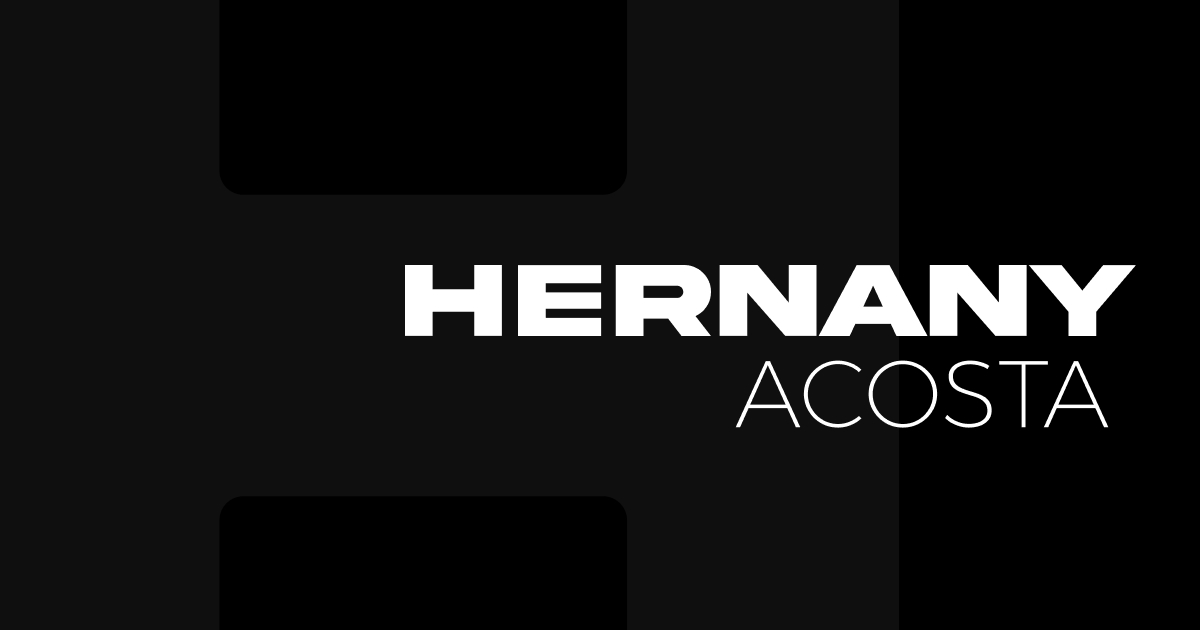
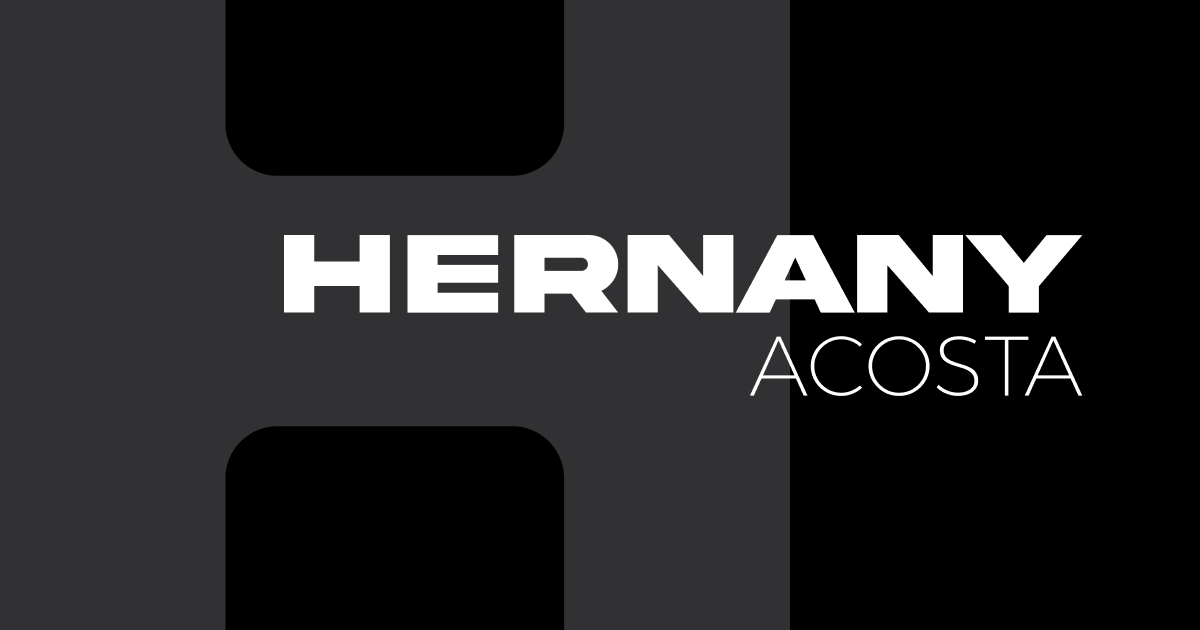
Improve-home-asets-SEO

diff --git a/src/app/components/home-page.tsx b/src/app/components/home-page.tsx
@@ -11,189 +11,183 @@ const featuredProjects = [
     id: "lotobola",
     title: "LotoBola",
     description:
-      "End-to-end product design for a betting platform, including UX flows, UI and frontend handoff.",
-    role: "Lead Product Designer",
-    type: "Platform / Web App",
-    image: "https://images.unsplash.com/photo-1718157582118-f04597eaae56?crop=entropy&cs=tinysrgb&fit=max&fm=jpg&ixid=M3w3Nzg4Nzd8MHwxfHNlYXJjaHwxfHxiZXR0aW5nJTIwcGxhdGZvcm0lMjBpbnRlcmZhY2V8ZW58MXx8fHwxNzY5MjE3Mjk3fDA&ixlib=rb-4.1.0&q=80&w=1080",
+      "End-to-end UX architecture and UI for a transactional betting ecosystem: critical flows, operational clarity, and frontend-ready handoff.",
+    role: "Lead Product / Service Designer",
+    type: "Regulated Platform · Web App",
+    image:
+      "https://images.unsplash.com/photo-1718157582118-f04597eaae56?crop=entropy&cs=tinysrgb&fit=max&fm=jpg&ixid=M3w3Nzg4Nzd8MHwxfHNlYXJjaHwxfHxiZXR0aW5nJTIwcGxhdGZvcm0lMjBpbnRlcmZhY2V8ZW58MXx8fHwxNzY5MjE3Mjk3fDA&ixlib=rb-4.1.0&q=80&w=1080",
   },
   {
     id: "playzonbet",
     title: "PlayzonBet",
     description:
-      "UX systems and UI for a sports betting platform focused on clarity, scalability and delivery.",
+      "Scalable UX systems and UI patterns for sports betting: reusable components, content hierarchy, and delivery alignment with engineering.",
     role: "Lead Product Designer",
-    type: "Platform / Web App",
-    image: "https://images.unsplash.com/photo-1758411898021-ef0dadaaa295?crop=entropy&cs=tinysrgb&fit=max&fm=jpg&ixid=M3w3Nzg4Nzd8MHwxfHNlYXJjaHwxfHxtb2Rlcm4lMjBkYXNoYm9hcmQlMjBpbnRlcmZhY2V8ZW58MXx8fHwxNzY5MTY5OTM3fDA&ixlib=rb-4.1.0&q=80&w=1080",
+    type: "Platform · Design System",
+    image:
+      "https://images.unsplash.com/photo-1758411898021-ef0dadaaa295?crop=entropy&cs=tinysrgb&fit=max&fm=jpg&ixid=M3w3Nzg4Nzd8MHwxfHNlYXJjaHwxfHxtb2Rlcm4lMjBkYXNoYm9hcmQlMjBpbnRlcmZhY2V8ZW58MXx8fHwxNzY5MTY5OTM3fDA&ixlib=rb-4.1.0&q=80&w=1080",
   },
   {
     id: "inlearning",
     title: "Inlearning",
     description:
-      "Design of a corporate e-learning platform focused on usability, content structure and frontend feasibility.",
-    role: "Lead Product Designer",
-    type: "Platform / Web App",
-    image: "https://images.unsplash.com/photo-1588912914074-b93851ff14b8?crop=entropy&cs=tinysrgb&fit=max&fm=jpg&ixid=M3w3Nzg4Nzd8MHwxfHNlYXJjaHwxfHxlbGVhcm5pbmclMjBwbGF0Zm9ybXxlbnwxfHx8fDE3NjkyMTcyOTd8MA&ixlib=rb-4.1.0&q=80&w=1080",
+      "Information architecture + UI for enterprise learning: usability, content structure, and implementation feasibility across teams.",
+    role: "Product Designer",
+    type: "Enterprise Platform",
+    image:
+      "https://images.unsplash.com/photo-1588912914074-b93851ff14b8?crop=entropy&cs=tinysrgb&fit=max&fm=jpg&ixid=M3w3Nzg4Nzd8MHwxfHNlYXJjaHwxfHxlbGVhcm5pbmclMjBwbGF0Zm9ybXxlbnwxfHx8fDE3NjkyMTcyOTd8MA&ixlib=rb-4.1.0&q=80&w=1080",
   },
   {
     id: "pacasmayo",
     title: "Pacasmayo",
     description:
-      "UX and UI for an internal digital platform to support operations and training.",
-    role: "Lead Product Designer",
-    type: "Platform / Web App",
-    image: "https://images.unsplash.com/photo-1698440050363-1697e5f0277c?crop=entropy&cs=tinysrgb&fit=max&fm=jpg&ixid=M3w3Nzg4Nzd8MHwxfHNlYXJjaHwxfHxkZXNpZ24lMjBzeXN0ZW0lMjBjb21wb25lbnRzfGVufDF8fHx8MTc2OTEyODA1OHww&ixlib=rb-4.1.0&q=80&w=1080",
+      "UX and UI for internal operations: workflows, training support, and system consistency across modules and roles.",
+    role: "UX / Product Designer",
+    type: "Internal Platform",
+    image:
+      "https://images.unsplash.com/photo-1698440050363-1697e5f0277c?crop=entropy&cs=tinysrgb&fit=max&fm=jpg&ixid=M3w3Nzg4Nzd8MHwxfHNlYXJjaHwxfHxkZXNpZ24lMjBzeXN0ZW0lMjBjb21wb25lbnRzfGVufDF8fHx8MTc2OTEyODA1OHww&ixlib=rb-4.1.0&q=80&w=1080",
   },
 ];
 
 const additionalExperience = [
-  {
-    title: "Jakala – Marketing Campaigns",
-    type: "Marketing / Campaign",
-    year: "2023",
-    image: "https://images.unsplash.com/photo-1656164631610-f104326810c1?crop=entropy&cs=tinysrgb&fit=max&fm=jpg&ixid=M3w3Nzg4Nzd8MHwxfHNlYXJjaHwxfHxkaWdpdGFsJTIwbWFya2V0aW5nJTIwY2FtcGFpZ258ZW58MXx8fHwxNzY5MDk2NzI4fDA&ixlib=rb-4.1.0&q=80&w=1080",
-  },
-  {
-    title: "Jakala – Brand Activations",
-    type: "Branding / Campaign",
-    year: "2023",
-    image: "https://images.unsplash.com/photo-1702047054352-cf264d3b1a9c?crop=entropy&cs=tinysrgb&fit=max&fm=jpg&ixid=M3w3Nzg4Nzd8MHwxfHNlYXJjaHwxfHxicmFuZCUyMGRlc2lnbiUyMHdvcmtzcGFjZXxlbnwxfHx8fDE3NjkyMTcyOTh8MA&ixlib=rb-4.1.0&q=80&w=1080",
-  },
-  {
-    title: "Corporate Branding Projects",
-    type: "Branding / Visual",
-    year: "2022",
-    image: "https://images.unsplash.com/photo-1702047054352-cf264d3b1a9c?crop=entropy&cs=tinysrgb&fit=max&fm=jpg&ixid=M3w3Nzg4Nzd8MHwxfHNlYXJjaHwxfHxicmFuZCUyMGRlc2lnbiUyMHdvcmtzcGFjZXxlbnwxfHx8fDE3NjkyMTcyOTh8MA&ixlib=rb-4.1.0&q=80&w=1080",
-  },
-  {
-    title: "Visual Identity Systems",
-    type: "Branding / Visual",
-    year: "2022",
-    image: "https://images.unsplash.com/photo-1702047054352-cf264d3b1a9c?crop=entropy&cs=tinysrgb&fit=max&fm=jpg&ixid=M3w3Nzg4Nzd8MHwxfHNlYXJjaHwxfHxicmFuZCUyMGRlc2lnbiUyMHdvcmtzcGFjZXxlbnwxfHx8fDE3NjkyMTcyOTh8MA&ixlib=rb-4.1.0&q=80&w=1080",
-  },
-  {
-    title: "Landing Pages",
-    type: "Visual / Web",
-    year: "2023",
-    image: "https://images.unsplash.com/photo-1656164631610-f104326810c1?crop=entropy&cs=tinysrgb&fit=max&fm=jpg&ixid=M3w3Nzg4Nzd8MHwxfHNlYXJjaHwxfHxkaWdpdGFsJTIwbWFya2V0aW5nJTIwY2FtcGFpZ258ZW58MXx8fHwxNzY5MDk2NzI4fDA&ixlib=rb-4.1.0&q=80&w=1080",
-  },
-  {
-    title: "Marketing Websites",
-    type: "Visual / Web",
-    year: "2022",
-    image: "https://images.unsplash.com/photo-1656164631610-f104326810c1?crop=entropy&cs=tinysrgb&fit=max&fm=jpg&ixid=M3w3Nzg4Nzd8MHwxfHNlYXJjaHwxfHxkaWdpdGFsJTIwbWFya2V0aW5nJTIwY2FtcGFpZ258ZW58MXx8fHwxNzY5MDk2NzI4fDA&ixlib=rb-4.1.0&q=80&w=1080",
-  },
-  {
-    title: "Editorial Design",
-    type: "Editorial / Visual",
-    year: "2021",
-    image: "https://images.unsplash.com/photo-1702047054352-cf264d3b1a9c?crop=entropy&cs=tinysrgb&fit=max&fm=jpg&ixid=M3w3Nzg4Nzd8MHwxfHNlYXJjaHwxfHxicmFuZCUyMGRlc2lnbiUyMHdvcmtzcGFjZXxlbnwxfHx8fDE3NjkyMTcyOTh8MA&ixlib=rb-4.1.0&q=80&w=1080",
-  },
-  {
-    title: "Social Media Campaigns",
-    type: "Marketing / Campaign",
-    year: "2021",
-    image: "https://images.unsplash.com/photo-1656164631610-f104326810c1?crop=entropy&cs=tinysrgb&fit=max&fm=jpg&ixid=M3w3Nzg4Nzd8MHwxfHNlYXJjaHwxfHxkaWdpdGFsJTIwbWFya2V0aW5nJTIwY2FtcGFpZ258ZW58MXx8fHwxNzY5MDk2NzI4fDA&ixlib=rb-4.1.0&q=80&w=1080",
-  },
+  { title: "Jakala – Marketing Campaigns", type: "Marketing / Campaign", year: "2023", image: "https://images.unsplash.com/photo-1656164631610-f104326810c1?crop=entropy&cs=tinysrgb&fit=max&fm=jpg&ixid=M3w3Nzg4Nzd8MHwxfHNlYXJjaHwxfHxkaWdpdGFsJTIwbWFya2V0aW5nJTIwY2FtcGFpZ258ZW58MXx8fHwxNzY5MDk2NzI4fDA&ixlib=rb-4.1.0&q=80&w=1080" },
+  { title: "Jakala – Brand Activations", type: "Branding / Campaign", year: "2023", image: "https://images.unsplash.com/photo-1702047054352-cf264d3b1a9c?crop=entropy&cs=tinysrgb&fit=max&fm=jpg&ixid=M3w3Nzg4Nzd8MHwxfHNlYXJjaHwxfHxicmFuZCUyMGRlc2lnbiUyMHdvcmtzcGFjZXxlbnwxfHx8fDE3NjkyMTcyOTh8MA&ixlib=rb-4.1.0&q=80&w=1080" },
+  { title: "Corporate Branding Projects", type: "Branding / Visual", year: "2022", image: "https://images.unsplash.com/photo-1702047054352-cf264d3b1a9c?crop=entropy&cs=tinysrgb&fit=max&fm=jpg&ixid=M3w3Nzg4Nzd8MHwxfHNlYXJjaHwxfHxicmFuZCUyMGRlc2lnbiUyMHdvcmtzcGFjZXxlbnwxfHx8fDE3NjkyMTcyOTh8MA&ixlib=rb-4.1.0&q=80&w=1080" },
+  { title: "Visual Identity Systems", type: "Branding / Visual", year: "2022", image: "https://images.unsplash.com/photo-1702047054352-cf264d3b1a9c?crop=entropy&cs=tinysrgb&fit=max&fm=jpg&ixid=M3w3Nzg4Nzd8MHwxfHNlYXJjaHwxfHxicmFuZCUyMGRlc2lnbiUyMHdvcmtzcGFjZXxlbnwxfHx8fDE3NjkyMTcyOTh8MA&ixlib=rb-4.1.0&q=80&w=1080" },
+  { title: "Landing Pages", type: "Visual / Web", year: "2023", image: "https://images.unsplash.com/photo-1656164631610-f104326810c1?crop=entropy&cs=tinysrgb&fit=max&fm=jpg&ixid=M3w3Nzg4Nzd8MHwxfHNlYXJjaHwxfHxkaWdpdGFsJTIwbWFya2V0aW5nJTIwY2FtcGFpZ258ZW58MXx8fHwxNzY5MDk2NzI4fDA&ixlib=rb-4.1.0&q=80&w=1080" },
+  { title: "Marketing Websites", type: "Visual / Web", year: "2022", image: "https://images.unsplash.com/photo-1656164631610-f104326810c1?crop=entropy&cs=tinysrgb&fit=max&fm=jpg&ixid=M3w3Nzg4Nzd8MHwxfHNlYXJjaHwxfHxkaWdpdGFsJTIwbWFya2V0aW5nJTIwY2FtcGFpZ258ZW58MXx8fHwxNzY5MDk2NzI4fDA&ixlib=rb-4.1.0&q=80&w=1080" },
+  { title: "Editorial Design", type: "Editorial / Visual", year: "2021", image: "https://images.unsplash.com/photo-1702047054352-cf264d3b1a9c?crop=entropy&cs=tinysrgb&fit=max&fm=jpg&ixid=M3w3Nzg4Nzd8MHwxfHNlYXJjaHwxfHxicmFuZCUyMGRlc2lnbiUyMHdvcmtzcGFjZXxlbnwxfHx8fDE3NjkyMTcyOTh8MA&ixlib=rb-4.1.0&q=80&w=1080" },
+  { title: "Social Media Campaigns", type: "Marketing / Campaign", year: "2021", image: "https://images.unsplash.com/photo-1656164631610-f104326810c1?crop=entropy&cs=tinysrgb&fit=max&fm=jpg&ixid=M3w3Nzg4Nzd8MHwxfHNlYXJjaHwxfHxkaWdpdGFsJTIwbWFya2V0aW5nJTIwY2FtcGFpZ258ZW58MXx8fHwxNzY5MDk2NzI4fDA&ixlib=rb-4.1.0&q=80&w=1080" },
 ];
 
 export function HomePage({ onNavigate }: HomePageProps) {
-  const heroRef = useRef<HTMLDivElement>(null);
+  const heroRef = useRef<HTMLElement>(null);
+
   const { scrollYProgress } = useScroll({
     target: heroRef,
     offset: ["start start", "end start"],
   });
 
-  const imageY = useTransform(scrollYProgress, [0, 1], ["0%", "30%"]);
-  const textY = useTransform(scrollYProgress, [0, 1], ["0%", "50%"]);
-  const opacity = useTransform(scrollYProgress, [0, 0.5], [1, 0]);
+  const imageY = useTransform(scrollYProgress, [0, 1], ["0%", "28%"]);
+  const textY = useTransform(scrollYProgress, [0, 1], ["0%", "45%"]);
+  const opacity = useTransform(scrollYProgress, [0, 0.55], [1, 0]);
 
   return (
-    <div className="pt-20">
+    <main className="pt-20">
       {/* Hero Section with Parallax */}
-      <section ref={heroRef} className="relative min-h-screen flex items-center overflow-hidden">
-        <motion.div
-          style={{ y: imageY }}
-          className="absolute inset-0 z-0"
-        >
-          <div className="absolute inset-0 bg-gradient-to-b from-transparent via-background/50 to-background z-10" />
+      <section
+        ref={heroRef}
+        aria-labelledby="home-hero-title"
+        className="relative min-h-screen flex items-center overflow-hidden"
+      >
+        <motion.div style={{ y: imageY }} className="absolute inset-0 z-0">
+         <div className="absolute inset-0 z-10 bg-gradient-to-b from-black/50 via-background/60 to-background" />
           <img
-            src="https://images.unsplash.com/photo-1740223544743-2aac7fb644c4?crop=entropy&cs=tinysrgb&fit=max&fm=jpg&ixid=M3w3Nzg4Nzd8MHwxfHNlYXJjaHwxfHxwcm9mZXNzaW9uYWwlMjBkZXNpZ25lciUyMHBvcnRyYWl0fGVufDF8fHx8MTc2OTEwNjYxOXww&ixlib=rb-4.1.0&q=80&w=1080"
-            alt="PLACEHOLDER – HERO PHOTO"
-            className="w-full h-full object-cover opacity-40"
-          />
+              src="/images/hero.webp"
+              alt="Hernany Acosta — Service & Product Designer"
+              className="w-full h-full object-cover opacity-40"
+              loading="eager"
+              fetchPriority="high"
+            />
         </motion.div>
 
-        <motion.div
+        <motion.header
           style={{ y: textY, opacity }}
           className="relative z-20 max-w-7xl mx-auto px-6 lg:px-12 py-32"
         >
           <div className="max-w-4xl">
-            <h1 className="text-6xl md:text-8xl lg:text-9xl tracking-tight mb-6">
+            <h1
+              id="home-hero-title"
+              className="text-6xl md:text-8xl lg:text-9xl tracking-tight mb-6"
+            >
               Hernany Acosta
             </h1>
-            <p className="text-2xl md:text-3xl text-muted-foreground mb-12">
-              Lead Product Designer
+
+            <p className="text-2xl md:text-3xl text-muted-foreground mb-8">
+              Service &amp; Product Designer for regulated digital ecosystems
             </p>
+
             <p className="text-xl md:text-2xl leading-relaxed mb-8 max-w-3xl">
-              I design and deliver scalable digital products by translating business
-              requirements into UX systems and frontend-ready solutions.
+              I design scalable UX systems for complex, regulated and transactional
+              environments — translating business constraints into architecture-ready,
+              frontend-aligned product experiences.
             </p>
+
             <p className="text-lg text-muted-foreground mb-12">
-              Product design · UX systems · UI · Frontend handoff
+              UX Architecture · Service Design · Design Systems · Frontend-aware Handoff
             </p>
-            <button
-              onClick={() => onNavigate("projects")}
-              className="group inline-flex items-center gap-3 px-8 py-4 bg-[var(--accent-portfolio)] text-white rounded-lg hover:opacity-90 transition-opacity"
-            >
-              <span>View selected work</span>
-              <ArrowRight
-                size={20}
-                className="group-hover:translate-x-1 transition-transform"
-              />
-            </button>
+
+            <div className="flex flex-col sm:flex-row gap-4">
+              <button
+                onClick={() => onNavigate("projects")}
+                className="group inline-flex items-center justify-center gap-3 px-8 py-4 bg-[var(--accent-portfolio)] text-white rounded-lg hover:opacity-90 transition-opacity"
+              >
+                <span>View selected work</span>
+                <ArrowRight
+                  size={20}
+                  className="group-hover:translate-x-1 transition-transform"
+                />
+              </button>
+
+              <button
+                onClick={() => onNavigate("contact")}
+                className="inline-flex items-center justify-center px-8 py-4 rounded-lg border border-border bg-background/40 hover:bg-background/70 transition-colors"
+              >
+                Contact
+              </button>
+            </div>
           </div>
-        </motion.div>
+        </motion.header>
       </section>
 
       {/* Value Proposition */}
-      <section className="max-w-7xl mx-auto px-6 lg:px-12 py-32">
+      <section className="max-w-7xl mx-auto px-6 lg:px-12 py-32" aria-labelledby="value-title">
+        <h2 id="value-title" className="sr-only">
+          Value proposition
+        </h2>
+
         <div className="grid md:grid-cols-3 gap-12 lg:gap-16">
           <div className="space-y-4">
-            <h3 className="text-2xl md:text-3xl tracking-tight">Product Thinking</h3>
+            <h3 className="text-2xl md:text-3xl tracking-tight">
+              Regulated & Transactional UX
+            </h3>
             <p className="text-lg text-muted-foreground leading-relaxed">
-              I focus on solving real business and user problems, not just designing
-              interfaces.
+              I design flows where correctness matters: validations, strict rules,
+              edge cases, operational clarity, and compliance-driven constraints.
             </p>
           </div>
+
           <div className="space-y-4">
             <h3 className="text-2xl md:text-3xl tracking-tight">
               UX → UI → Frontend Delivery
             </h3>
             <p className="text-lg text-muted-foreground leading-relaxed">
-              I design complete UX and UI systems and work closely with engineers to
-              ensure what gets built matches the intended experience.
+              I ship systems, not mockups: UX architecture, UI specs, reusable patterns,
+              and tight collaboration to ensure implementation matches intent.
             </p>
           </div>
+
           <div className="space-y-4">
             <h3 className="text-2xl md:text-3xl tracking-tight">
               Systems over Screens
             </h3>
             <p className="text-lg text-muted-foreground leading-relaxed">
-              I prioritize flows, architecture and reusable components over isolated
-              UI.
+              I prioritize information architecture, workflows, and component governance
+              so products scale across teams, markets and evolving requirements.
             </p>
           </div>
         </div>
       </section>
 
       {/* Featured Projects */}
-      <section className="max-w-7xl mx-auto px-6 lg:px-12 py-32">
-        <h2 className="text-4xl md:text-6xl tracking-tight mb-16">
+      <section className="max-w-7xl mx-auto px-6 lg:px-12 py-32" aria-labelledby="core-work-title">
+        <h2 id="core-work-title" className="text-4xl md:text-6xl tracking-tight mb-16">
           Core Product Work
         </h2>
+
         <div className="grid gap-16 lg:gap-24">
           {featuredProjects.map((project) => (
-            <motion.div
+            <motion.article
               key={project.id}
               initial={{ opacity: 0, y: 40 }}
               whileInView={{ opacity: 1, y: 0 }}
@@ -201,14 +195,17 @@ export function HomePage({ onNavigate }: HomePageProps) {
               transition={{ duration: 0.6 }}
               className="group cursor-pointer"
               onClick={() => onNavigate("case-study", project.id)}
+              aria-label={`Open case study: ${project.title}`}
             >
               <div className="relative overflow-hidden rounded-lg mb-8 aspect-[16/9]">
                 <img
                   src={project.image}
-                  alt={`PLACEHOLDER – ${project.title.toUpperCase()} PROJECT IMAGE`}
+                  alt={`${project.title} project cover`}
                   className="w-full h-full object-cover group-hover:scale-105 transition-transform duration-500"
+                  loading="lazy"
                 />
               </div>
+
               <div className="space-y-4">
                 <h3 className="text-3xl md:text-5xl tracking-tight group-hover:text-[var(--accent-portfolio)] transition-colors">
                   {project.title}
@@ -216,55 +213,61 @@ export function HomePage({ onNavigate }: HomePageProps) {
                 <p className="text-lg md:text-xl text-muted-foreground leading-relaxed max-w-3xl">
                   {project.description}
                 </p>
+
                 <div className="flex flex-wrap gap-4 text-sm text-muted-foreground">
                   <span>Role: {project.role}</span>
                   <span>·</span>
                   <span>{project.type}</span>
                 </div>
               </div>
-            </motion.div>
+            </motion.article>
           ))}
         </div>
       </section>
 
       {/* Additional Experience */}
-      <section className="max-w-7xl mx-auto px-6 lg:px-12 py-32">
+      <section className="max-w-7xl mx-auto px-6 lg:px-12 py-32" aria-labelledby="additional-title">
         <div className="mb-16 space-y-4">
-          <h2 className="text-4xl md:text-6xl tracking-tight">
+          <h2 id="additional-title" className="text-4xl md:text-6xl tracking-tight">
             Additional Design Experience
           </h2>
           <p className="text-xl text-muted-foreground max-w-3xl">
-            Branding, campaigns, visual design and other selected work.
+            Branding, campaigns, visual systems and other selected work.
           </p>
         </div>
+
         <div className="grid sm:grid-cols-2 lg:grid-cols-4 gap-8">
           {additionalExperience.map((item, index) => (
-            <motion.div
-              key={index}
+            <motion.article
+              key={`${item.title}-${index}`}
               initial={{ opacity: 0, y: 20 }}
               whileInView={{ opacity: 1, y: 0 }}
               viewport={{ once: true }}
-              transition={{ duration: 0.4, delay: index * 0.1 }}
+              transition={{ duration: 0.4, delay: index * 0.05 }}
               className="group cursor-pointer"
+              aria-label={`${item.title} (${item.year})`}
             >
               <div className="relative overflow-hidden rounded-lg mb-4 aspect-square">
                 <img
                   src={item.image}
-                  alt={`PLACEHOLDER – ${item.title.toUpperCase()}`}
+                  alt={item.title}
                   className="w-full h-full object-cover group-hover:scale-105 transition-transform duration-500"
+                  loading="lazy"
                 />
               </div>
-              <h4 className="text-lg mb-2 group-hover:text-[var(--accent-portfolio)] transition-colors">
+
+              <h3 className="text-lg mb-2 group-hover:text-[var(--accent-portfolio)] transition-colors">
                 {item.title}
-              </h4>
+              </h3>
+
               <div className="text-sm text-muted-foreground space-y-1">
                 <p>{item.type}</p>
                 <p>{item.year}</p>
               </div>
-            </motion.div>
+            </motion.article>
           ))}
         </div>
       </section>
-    </div>
+    </main>
   );
 }
